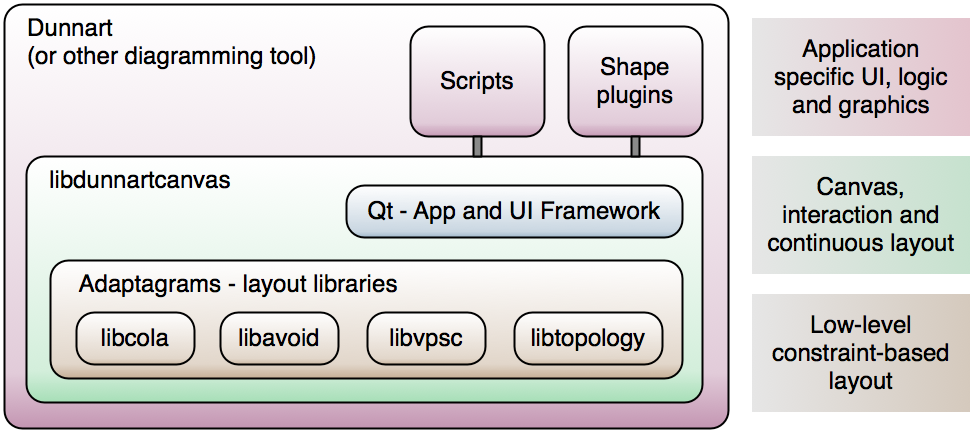
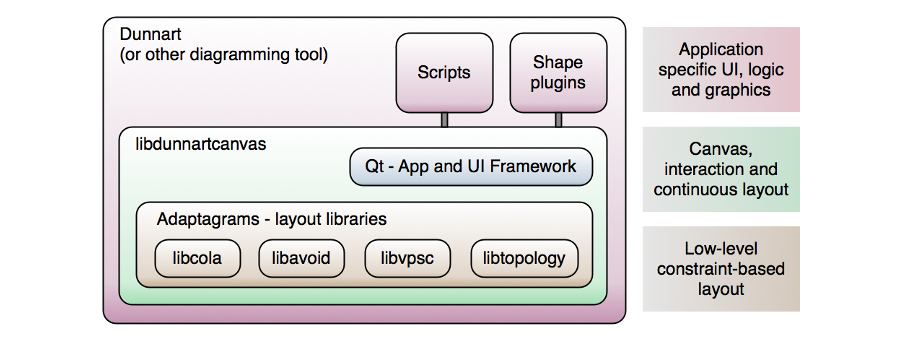
Improve architechture image in README.

diff --git a/README.md b/README.md
@@ -65,7 +65,7 @@ Adaptagrams is a library of tools and reusable code for adaptive diagramming
 applications, for example: drawing tools, automated document and diagram
 layout, smart presentation software, graph drawing, chart layout, etc.
 
-<img src="https://raw.github.com/mjwybrow/dunnart/master/libdunnartcanvas/doc/DunnartStructure.png" alt="Dunnart architecture" style="width: 700px; margin-left: 100px;" />
+![Dunnart architecture](https://raw.github.com/mjwybrow/dunnart/master/libdunnartcanvas/doc/DunnartStructure.png)
 
 ### Authors ###
 
